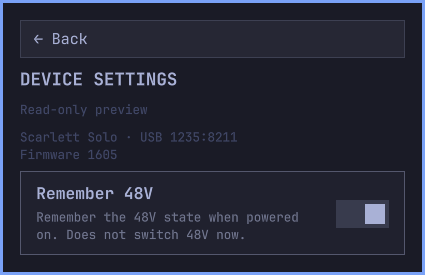
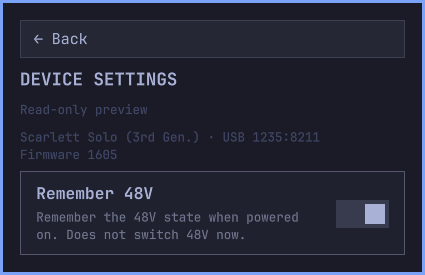
Identify supported Scarlett Solo as third generation

Changed region(s): [[0.2753, 0.4655, 0.7647, 0.5236]]

diff --git a/Panel.qml b/Panel.qml
@@ -86,8 +86,8 @@ Panel {
         }
         opacity: root.state.connected ? 1 : 0.45
         tooltipText: root.state.connected
-            ? "Scarlett Solo\n" + root.controlStatus("phantom", "48V") + " · " + root.controlStatus("monitor", "Direct monitor")
-            : "Scarlett Solo\nDisconnected"
+            ? "Scarlett Solo (3rd Gen.)\n" + root.controlStatus("phantom", "48V") + " · " + root.controlStatus("monitor", "Direct monitor")
+            : "Scarlett Solo (3rd Gen.)\nDisconnected"
         onPressed: b => { if (b === Qt.LeftButton) root.toggle() }
     }
     onOpenedChanged: {
@@ -250,7 +250,7 @@ Panel {
                         Text {
                             width: parent.width
                             text: root.state.connected
-                                ? (root.state.info?.model || "Scarlett Solo") + " · USB " + (root.state.info?.usb_id || "Unknown")
+                                ? (root.state.info?.model || "Scarlett Solo (3rd Gen.)") + " · USB " + (root.state.info?.usb_id || "Unknown")
                                   + "\nFirmware " + (root.state.info?.firmware ?? "unavailable")
                                 : "Connect your Scarlett to view device information."
                             textFormat: Text.PlainText

diff --git a/src/scarlett-helper.c b/src/scarlett-helper.c
@@ -26,7 +26,7 @@ static snd_ctl_t *ctl;
 static unsigned generation;
 static char device[128];
 static bool readonly_mode, no_device;
-static const char *discovery_error = "Scarlett Solo disconnected";
+static const char *discovery_error = "Scarlett Solo (3rd Gen.) disconnected";
 
 static void field(json_object *o, const char *k, const char *v) {
     json_object_object_add(o, k, json_object_new_string(v));
@@ -76,7 +76,7 @@ static int read_control(int i, bool *value, bool *writable) {
 static json_object *device_info(void) {
     json_object *o = json_object_new_object();
     if (!ctl) return o;
-    field(o, "model", "Scarlett Solo");
+    field(o, "model", "Scarlett Solo (3rd Gen.)");
     field(o, "usb_id", "1235:8211");
     snd_ctl_elem_info_t *info;
     snd_ctl_elem_value_t *v;
@@ -122,7 +122,7 @@ static void discover(void) {
     if (no_device) return;
     int card = -1, found = 0;
     snd_ctl_t *candidate = NULL;
-    discovery_error = "Scarlett Solo disconnected";
+    discovery_error = "Scarlett Solo (3rd Gen.) disconnected";
     while (snd_card_next(&card) >= 0 && card >= 0) {
         /* Limit v0.1 to the USB product verified on the development device.
          * Other generations must get an explicit profile after testing. */
@@ -154,7 +154,7 @@ static void discover(void) {
         discovery_error = "Cannot subscribe to Scarlett control changes";
         return;
     }
-    snprintf(device, sizeof(device), "Scarlett Solo");
+    snprintf(device, sizeof(device), "Scarlett Solo (3rd Gen.)");
     generation++;
 }
 static void reply(int64_t id, const char *error) {

diff --git a/docs/ROADMAP.md b/docs/ROADMAP.md
@@ -2,12 +2,12 @@
 
 Direction: grow from Solo quick controls into an Omarchy-native control surface
 for the Focusrite families supported by Linux, reducing the need for a separate
-application as coverage is verified. The maintainer owns a Solo (`1235:8211`);
+application as coverage is verified. The maintainer owns a Scarlett Solo (3rd Gen.) (`1235:8211`);
 help testing other interfaces is warmly welcome.
 
 ## Current scope and priorities
 
-The current implementation targets Scarlett Solo USB `1235:8211`. It provides
+The current implementation targets Scarlett Solo (3rd Gen.) USB `1235:8211`. It provides
 Air, 48V, Line/Inst and direct-monitor controls, plus the 48V startup preference
 and device information. See [validation notes](VALIDATION.md) for the precise
 test coverage; implemented does not mean fully hardware-validated.

diff --git a/docs/PUBLISHING.md b/docs/PUBLISHING.md
@@ -14,7 +14,7 @@ Suggested listing:
 - Name: Scarlett for Omarchy
 - Category: Hardware
 - Tags: bar, media, quickshell
-- Scope: native quick controls and startup preference for Solo USB 1235:8211.
+- Scope: native quick controls and startup preference for Scarlett Solo (3rd Gen.) USB 1235:8211.
 - Setup: manual setup required after the plugin manager clones the repository;
   run scripts/install.sh to check dependencies, compile and enable. No downloaded
   executable or privileged background service is used.

diff --git a/CONTRIBUTING.md b/CONTRIBUTING.md
@@ -3,7 +3,7 @@
 Feature requests, bug reports, device information, documentation improvements,
 and pull requests are welcome. You do not need to write code to help.
 
-The maintainer tests on a Scarlett Solo (`1235:8211`). Reports and hardware
+The maintainer tests on a Scarlett Solo (3rd Gen.) (`1235:8211`). Reports and hardware
 testing from owners of other Focusrite interfaces will help us expand support
 with confidence. Thanks for helping make the plugin useful to more people.
 

diff --git a/README.md b/README.md
@@ -11,7 +11,7 @@ interface components. No separate control-panel application is required.
 
 ## Built on my Solo, with room for the family
 
-I own a **Scarlett Solo (USB product `1235:8211`)**, and that's the interface I'm
+I own a **Scarlett Solo (3rd Gen.)**, USB product **`1235:8211`**, and that's the interface I'm
 building and testing with. It's the model this plugin currently supports.
 
 I'd love to bring the same native Omarchy experience to the wider Focusrite

diff --git a/docs/RELEASE.md b/docs/RELEASE.md
@@ -1,7 +1,7 @@
 # Solo preview release readiness
 
 Repository stays private until the owner explicitly approves publication.
-The first release is scoped to Scarlett Solo USB `1235:8211`, not all Focusrite
+The first release is scoped to Scarlett Solo (3rd Gen.) USB `1235:8211`, not all Focusrite
 interfaces. See ROADMAP.md for planned expansion.
 
 ## Completed release preparation

diff --git a/support/alsa-restore/README.md b/support/alsa-restore/README.md
@@ -1,4 +1,4 @@
-# Scarlett Solo settings restored by the system
+# Scarlett Solo (3rd Gen.) settings restored by the system
 
 On the maintainer's machine, `/var/lib/alsa/asound.state` held an older Solo
 configuration with phantom power off and phantom-power persistence on. The

diff --git a/docs/VALIDATION.md b/docs/VALIDATION.md
@@ -1,7 +1,7 @@
 # Development validation — 2026-09-08
 
 Environment: Omarchy 4.0.2, Quickshell 0.3.1, ALSA 1.2.16.1;
-Scarlett Solo USB product 1235:8211.
+Scarlett Solo (3rd Gen.) USB product 1235:8211.
 
 Passed:
 
